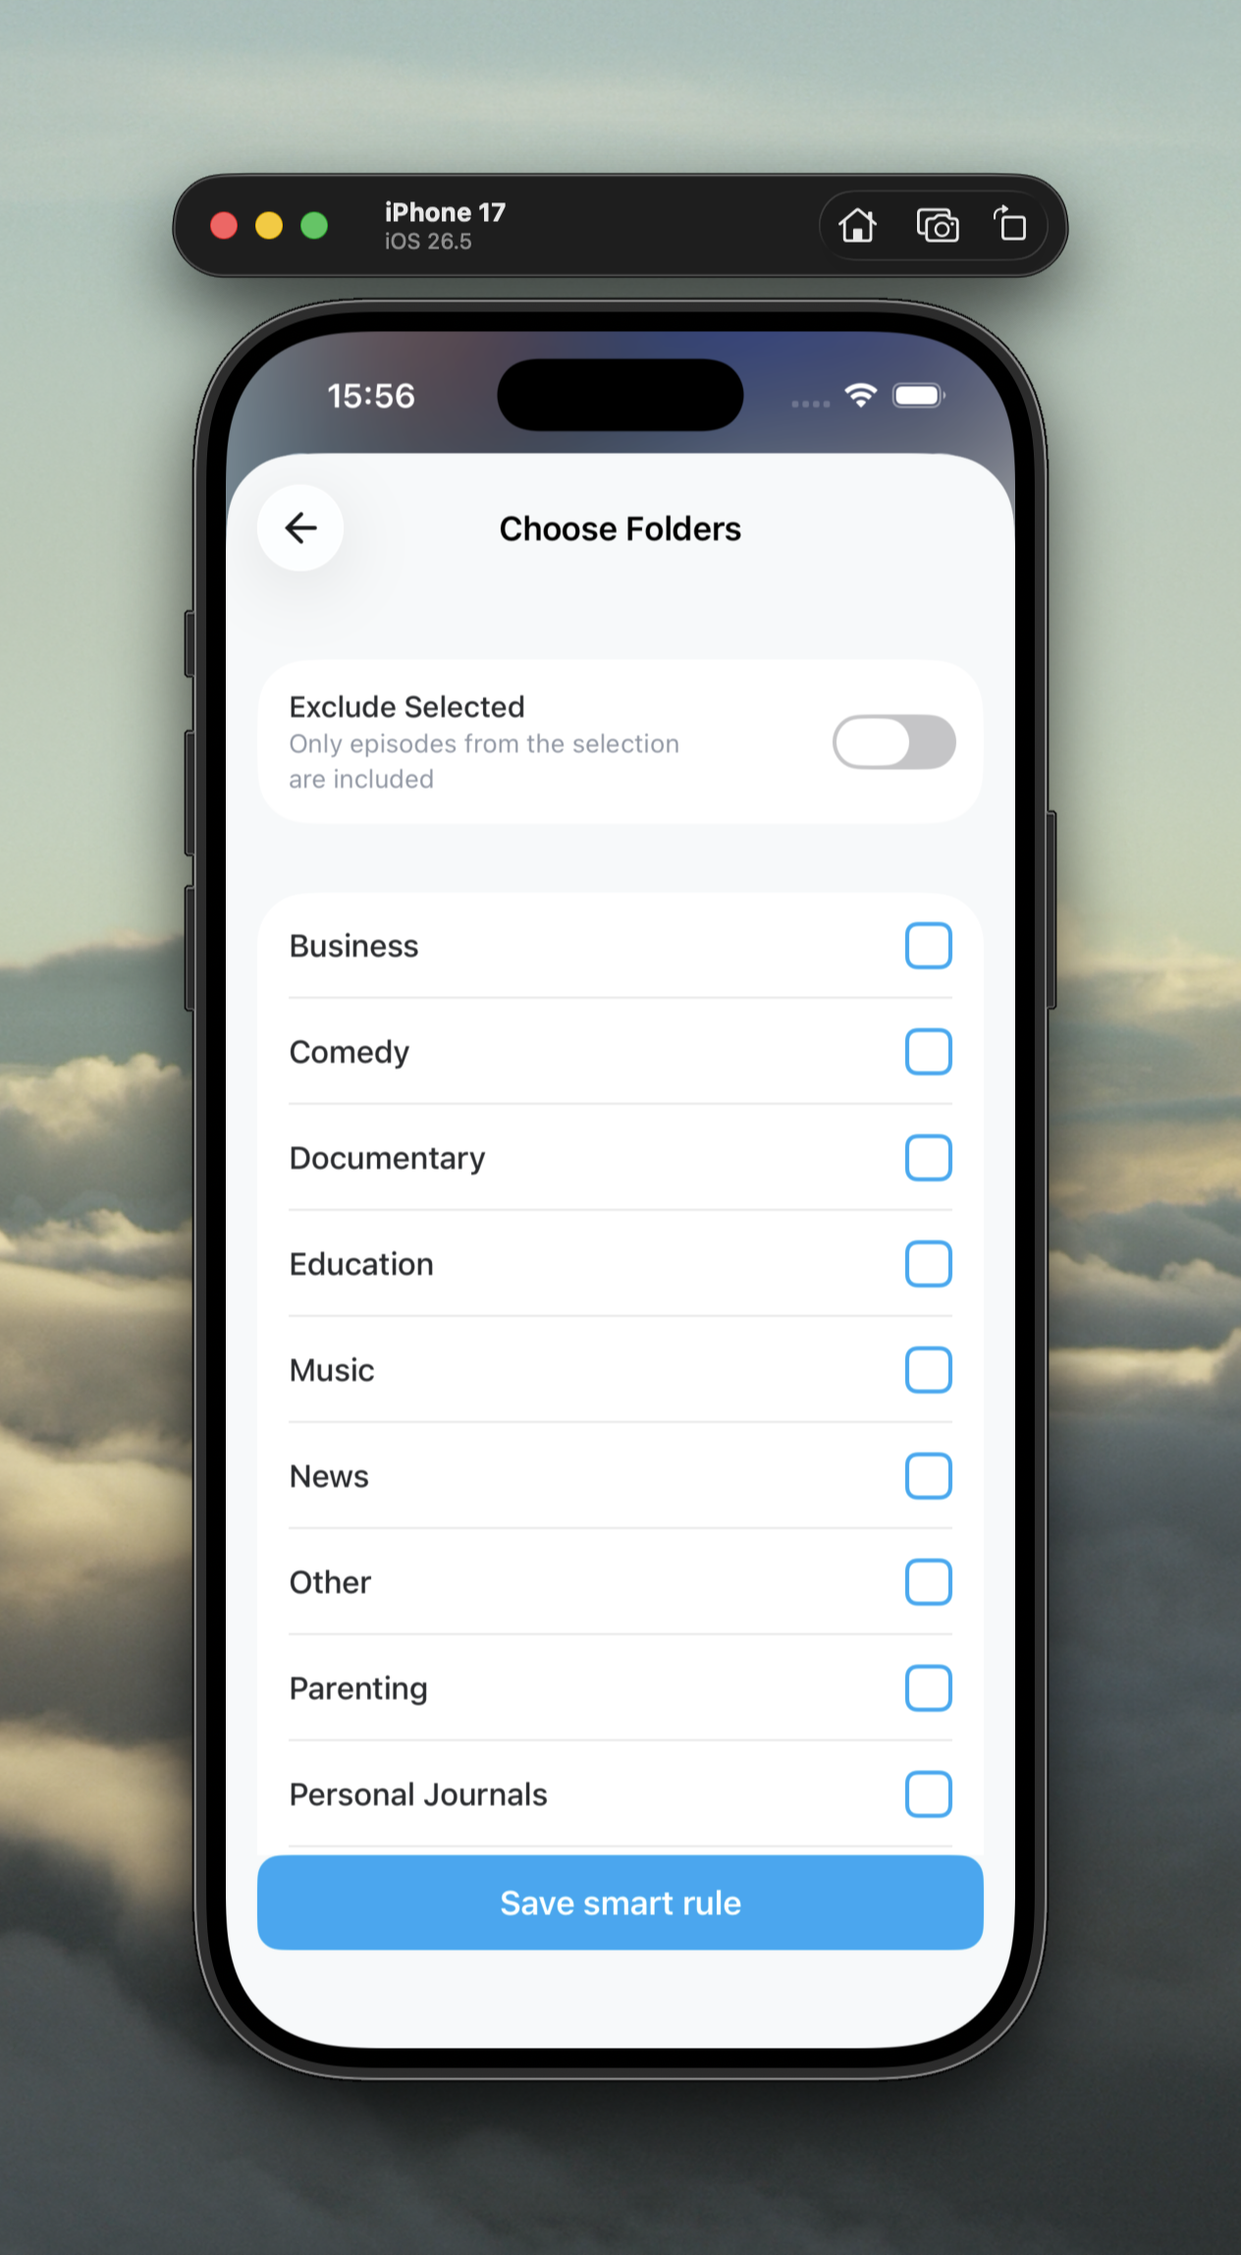
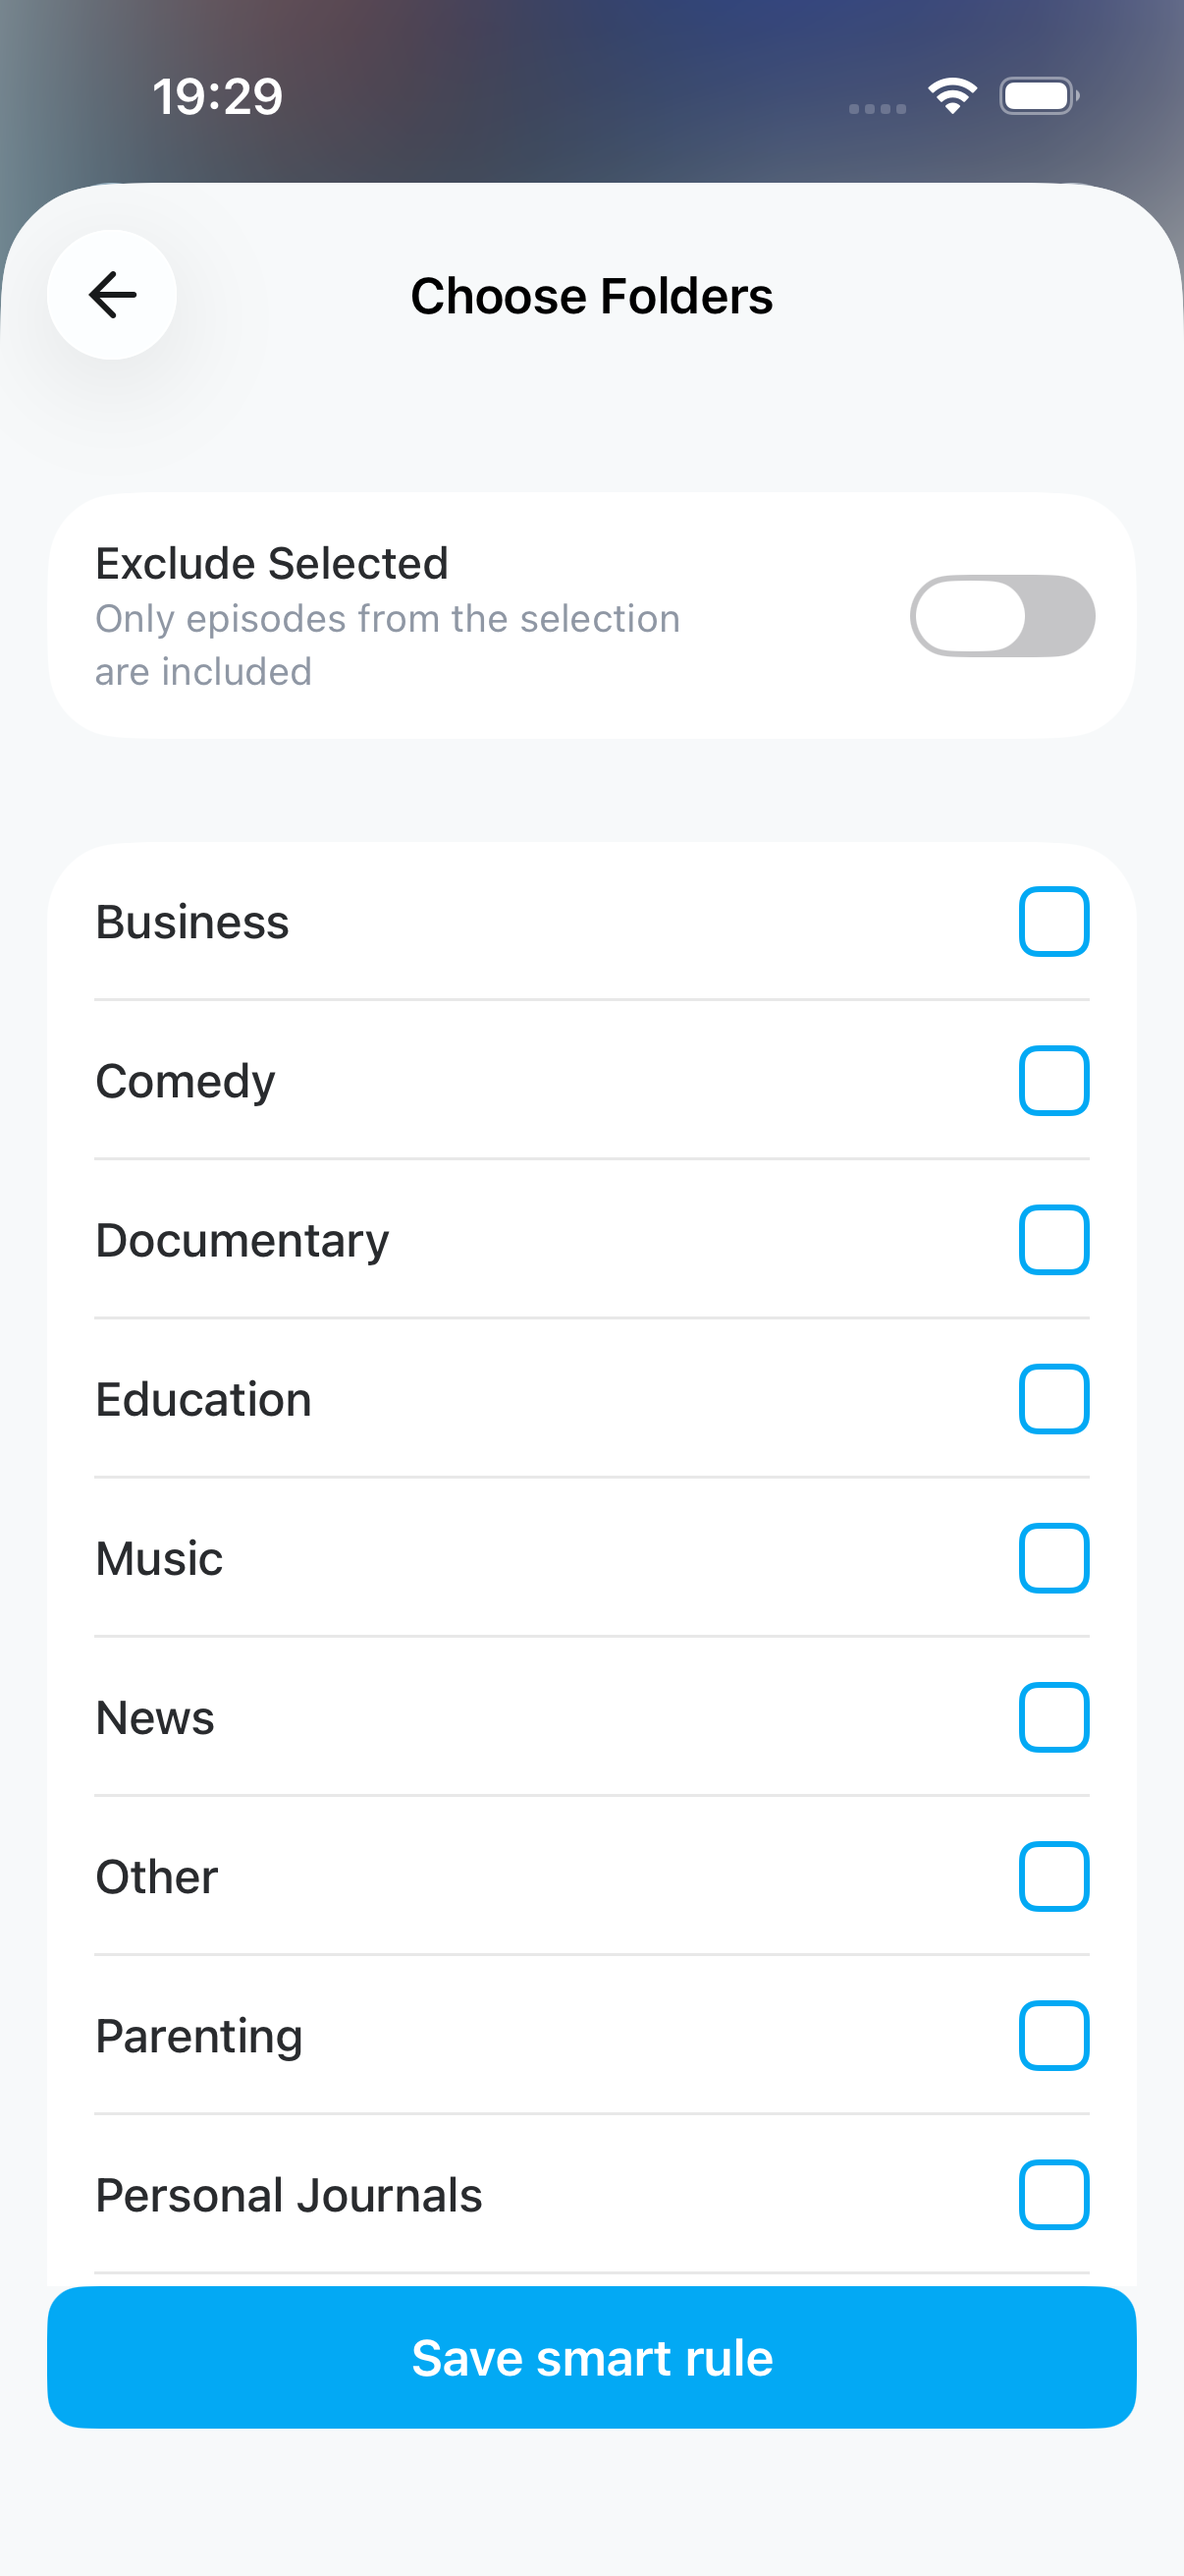
Retake all fork README screenshots on the simulator via UI test
All five docs/fork/ screenshots now come from one ForkScreenshots UI-test
run (Screenshot Automation target) on the same simulator with the same
data: Starred playlist page, Starred session with the pill switcher,
queue peek with the filter picker, smart rules, and the folder rule.

Claude-Session: https://claude.ai/code/session_01WB5cEdLkF3nirTWhU4bDZp

diff --git a/Screenshot Automation/GenerateScreenshots.swift b/Screenshot Automation/GenerateScreenshots.swift
@@ -109,3 +109,110 @@ extension GenerateScreenshots {
         element.tap()
     }
 }
+
+// MARK: - Fork screenshots
+
+/// Fork: captures the README screenshots (docs/fork/) on the simulator so they all
+/// share the same device frame and data. Run against the booted simulator with:
+///   xcodebuild test -project podcasts.xcodeproj -scheme "Screenshot Automation" \
+///     -configuration StagingDebug -destination "platform=iOS Simulator,id=booted" \
+///     -only-testing:"Screenshot Automation/ForkScreenshots"
+/// PNGs land in ~/Library/Caches/tools.fastlane/screenshots.
+final class ForkScreenshots: XCTestCase {
+    let app = XCUIApplication()
+
+    override func setUpWithError() throws {
+        continueAfterFailure = false
+        setupSnapshot(app)
+        app.launch()
+        XCTAssert(app.wait(for: .runningForeground, timeout: 10))
+    }
+
+    private func element(labeled label: String) -> XCUIElement {
+        app.descendants(matching: .any).matching(NSPredicate(format: "label BEGINSWITH[c] %@", label)).firstMatch
+    }
+
+    private func dismissAnySheet() {
+        for label in ["Close", "Not Now", "Maybe Later", "Done"] {
+            let button = app.buttons[label]
+            if button.exists, button.isHittable {
+                button.tap()
+                sleep(1)
+            }
+        }
+    }
+
+    /// TipKit bubbles (e.g. "Reorder your playlists") block hit-testing; a tap on the
+    /// navigation bar area dismisses them without activating anything.
+    private func dismissTips() {
+        app.coordinate(withNormalizedOffset: CGVector(dx: 0.5, dy: 0.08)).tap()
+        sleep(1)
+    }
+
+    /// Coordinate-based tap — works on elements XCUITest reports as not hittable
+    /// (SwiftUI list rows, tip-covered content).
+    private func tap(_ label: String) {
+        let el = element(labeled: label)
+        XCTAssert(el.waitForExistence(timeout: 10), "Missing element: \(label)")
+        el.coordinate(withNormalizedOffset: CGVector(dx: 0.5, dy: 0.5)).tap()
+    }
+
+    func testForkScreenshots() throws {
+        let tabBar = app.tabBars.firstMatch
+        sleep(5) // give the cold launch time to open the database and warm caches
+        dismissAnySheet()
+
+        // Starred playlist page with the Play as Session pill.
+        tabBar.buttons.element(boundBy: 1).waitForThenTap() // Playlists
+        sleep(2)
+        dismissTips()
+        tap("Starred")
+        // The episode list loads asynchronously — wait for a non-zero count before
+        // trusting the page (Play as Session no-ops on an empty list).
+        let loadedCount = app.descendants(matching: .any).matching(NSPredicate(format: "label CONTAINS ' episodes' AND NOT label CONTAINS '0 episodes'")).firstMatch
+        _ = loadedCount.waitForExistence(timeout: 30)
+        sleep(2)
+        snapshot("playlist-play-as-session")
+
+        // Start the session on Starred.
+        tap("Play as Session")
+        // Custom-order playlists with an empty Lineup ask before playing.
+        let playAsIs = app.buttons["Play as-is"]
+        if playAsIs.waitForExistence(timeout: 2) {
+            playAsIs.tap()
+        }
+        sleep(3)
+
+        // Session view on the Up Next screen.
+        tabBar.buttons.element(boundBy: 3).waitForThenTap() // Session / Up Next
+        sleep(2)
+        snapshot("session-in-up-next")
+
+        // Peek at the queue and open the filter picker. The pill switcher is not
+        // exposed as a segmented control, so find the segment by its label.
+        tap("Up Next ·")
+        sleep(1)
+        tap("Filter Up Next By")
+        sleep(2)
+        snapshot("up-next-filter")
+        app.coordinate(withNormalizedOffset: CGVector(dx: 0.5, dy: 0.1)).tap() // dismiss picker
+        sleep(1)
+
+        // Smart rules editor, then the folder rule picker — last, since the sheet
+        // has no swipe-to-dismiss and the test can end with it open.
+        tabBar.buttons.element(boundBy: 1).waitForThenTap()
+        sleep(1)
+        tap("Starred")
+        _ = loadedCount.waitForExistence(timeout: 30)
+        sleep(2)
+        tap("Smart rules")
+        sleep(2)
+        snapshot("smart-rules")
+        let foldersRow = element(labeled: "Folders")
+        if foldersRow.waitForExistence(timeout: 3) {
+            foldersRow.coordinate(withNormalizedOffset: CGVector(dx: 0.5, dy: 0.5)).tap()
+            sleep(2)
+            snapshot("smart-rule-folders")
+        }
+    }
+}
